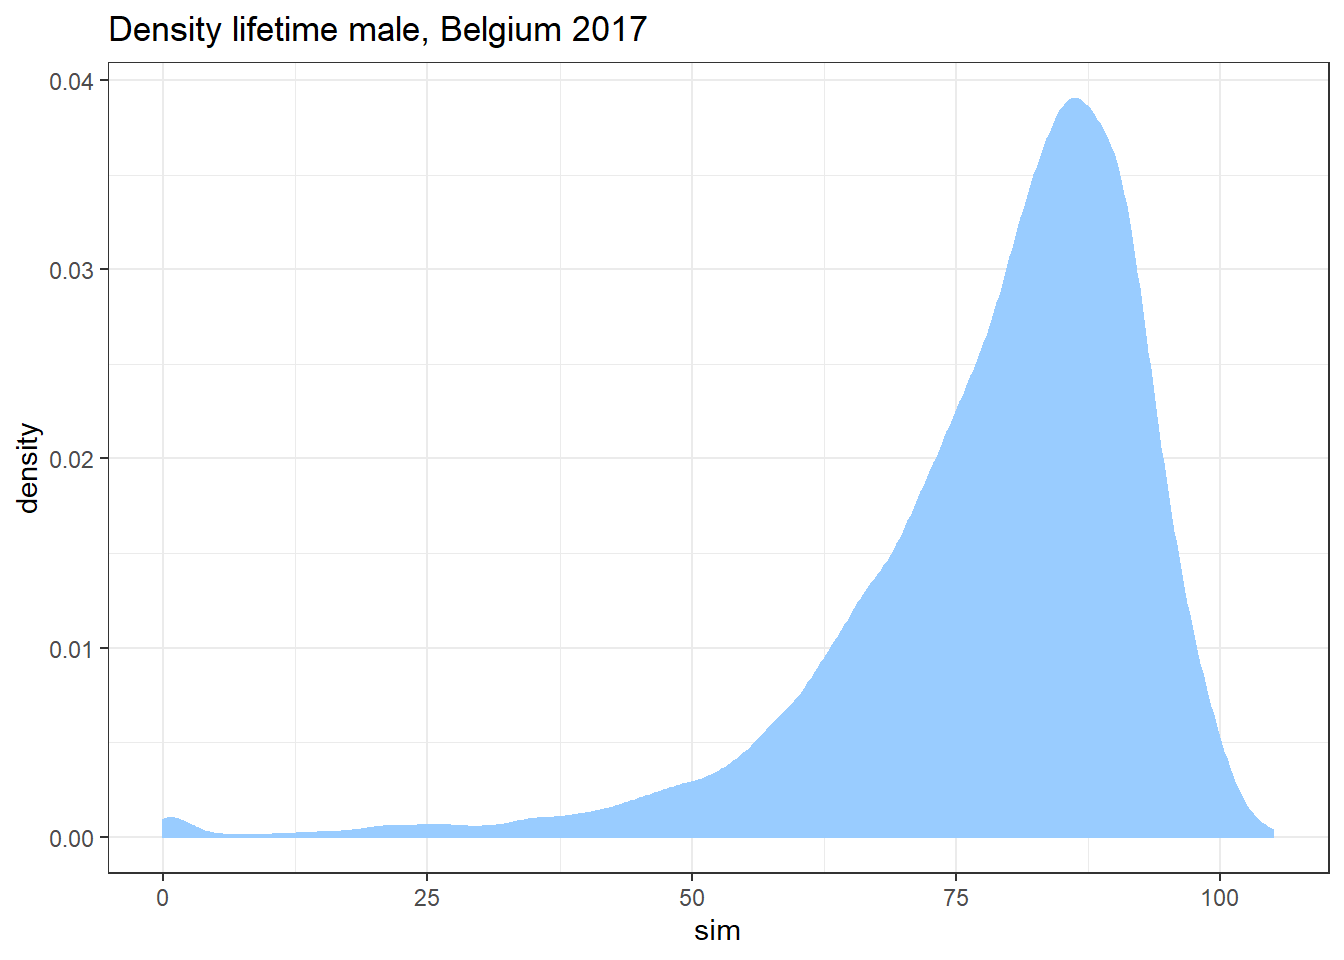
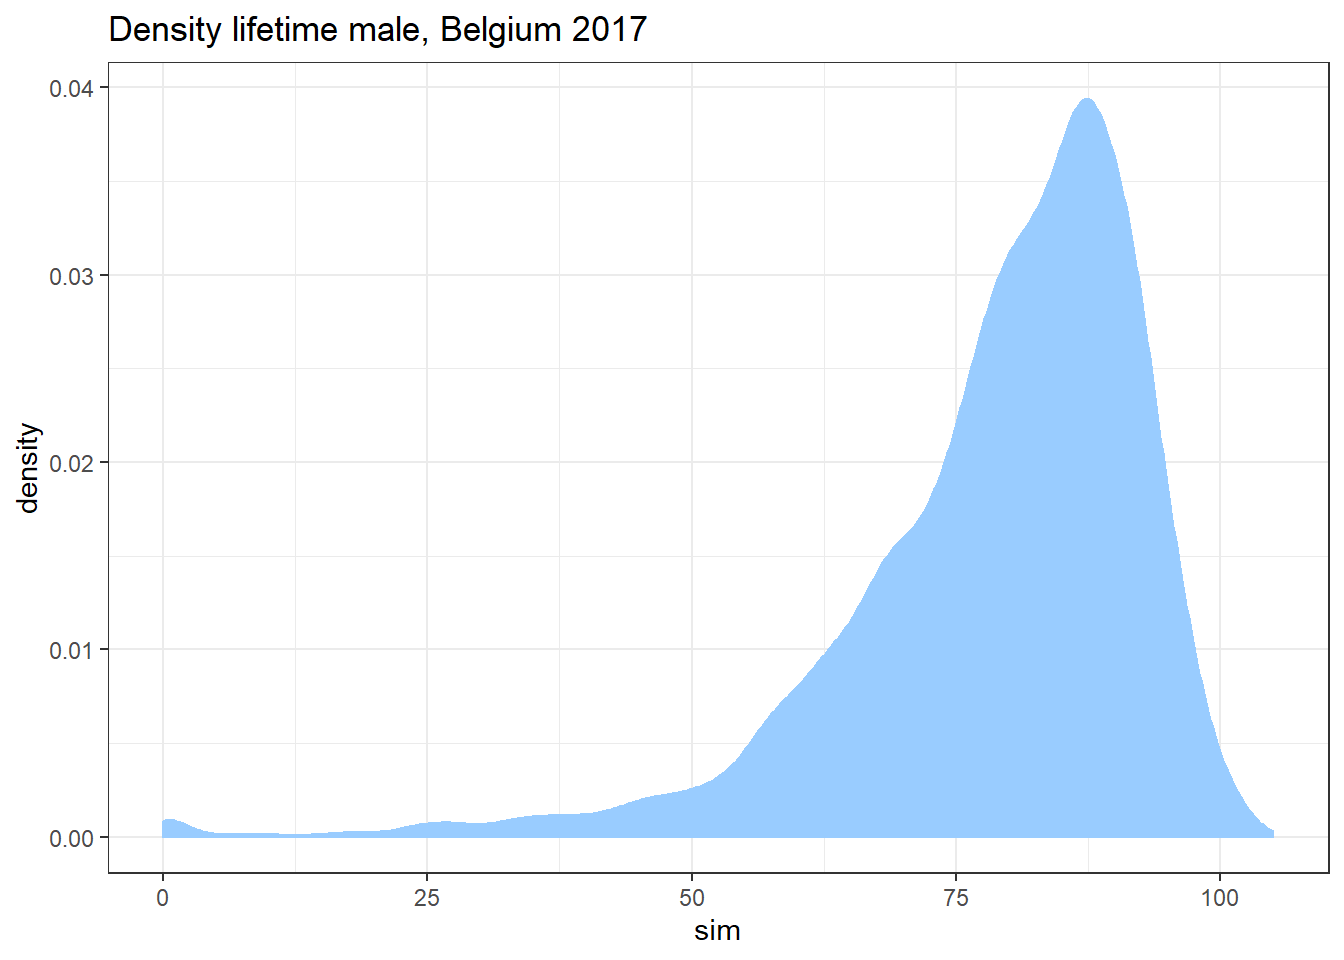
update simualtion

diff --git a/simulation.html b/simulation.html
@@ -25,7 +25,7 @@
 <meta name="author" content="Katrien Antonio and Jonas Crevecoeur">
 
 
-<meta name="date" content="2019-12-02">
+<meta name="date" content="2019-12-05">
 
   <meta name="viewport" content="width=device-width, initial-scale=1">
   <meta name="apple-mobile-web-app-capable" content="yes">
@@ -254,6 +254,30 @@ code > span.in { color: #60a0b0; font-weight: bold; font-style: italic; } /* Inf
 <blockquote>
 <p>Given a CDF <span class="math inline">\(F_X\)</span> of a continuous distribution and a uniformly distributed random variable <span class="math inline">\(U\)</span> on <span class="math inline">\([0, 1]\)</span>. Then <span class="math inline">\(F_X\)</span> is the CDF of the random variable <span class="math inline">\(X = F_X^{-1}(U)\)</span>.</p>
 </blockquote>
+<p>We illustrate this with the exponential distribution, <span class="math display">\[ 
+F_Y(y) = \begin{cases} 
+1 - \exp(-\lambda \cdot y) &amp; y \geq 0 \\
+0 &amp; y &lt; 0
+\end{cases}
+\]</span> and <span class="math display">\[ 
+F_Y^{-1}(z) = -\frac{\log(1-z)}{\lambda}, \quad z \in (0, 1).
+\]</span></p>
+<p>We simulate <span class="math inline">\(u\)</span> from a uniform distribution on <span class="math inline">\([0, 1]\)</span>.</p>
+<div class="sourceCode"><pre class="sourceCode r"><code class="sourceCode r"><span class="kw">set.seed</span>(<span class="dv">4</span>)
+u &lt;-<span class="st"> </span><span class="kw">runif</span>(<span class="dv">1</span>)</code></pre></div>
+<p>When we now apply the inverse cdf on this simulation <span class="math inline">\(u\)</span>, we obtain a simulation from the exponential distribution.</p>
+<div class="sourceCode"><pre class="sourceCode r"><code class="sourceCode r">Finverse &lt;-<span class="st"> </span><span class="cf">function</span>(z, lambda) {
+  <span class="op">-</span><span class="kw">log</span>(<span class="dv">1</span><span class="op">-</span>z) <span class="op">/</span><span class="st"> </span>lambda
+}
+
+lambda &lt;-<span class="st"> </span><span class="dv">1</span>
+sim &lt;-<span class="st"> </span><span class="kw">Finverse</span>(u, lambda)
+
+<span class="kw">print</span>(<span class="kw">c</span>(<span class="dt">u =</span> u, <span class="dt">sim =</span> sim))</code></pre></div>
+<pre><code>##         u       sim 
+## 0.5858003 0.8814071</code></pre>
+<pre><code>## Loading required package: latex2exp</code></pre>
+<p><img src="_main_files/figure-html/cdf%20exponential-1.png" width="672" /></p>
 <p>For more information see <a href="https://en.wikipedia.org/wiki/Probability_integral_transform">probability integral transform</a> and <a href="https://en.wikipedia.org/wiki/Inverse_transform_sampling">inverse transform sampling</a>. Because of this property, you can follow the steps below to simulate <span class="math inline">\(n\)</span> independent observations from a distribution with CDF <span class="math inline">\(F_X\)</span>:</p>
 <ol style="list-style-type: decimal">
 <li>Simulate <span class="math inline">\(n\)</span> indepdendent observations <span class="math inline">\(u_1, \ldots, u_n\)</span> from a uniform distribution (<code>runif</code> in R) on <span class="math inline">\([0, 1]\)</span>;</li>
@@ -328,7 +352,7 @@ sim &lt;-<span class="st"> </span><span class="kw">cdf.inverse</span>(u)</code><
 }
 
 <span class="kw">mean</span>(<span class="kw">deductible</span>(sim, <span class="dv">300</span>))</code></pre></div>
-<pre><code>## [1] 353.4294</code></pre>
+<pre><code>## [1] 382.2624</code></pre>
 </div>
 </div>
 </div>
@@ -410,7 +434,7 @@ aggregated.loss &lt;-<span class="st"> </span><span class="kw">rep</span>(<span 
   
 <span class="co"># Calculate the expected loss per policy, when there is no deductible</span>
 <span class="kw">mean</span>(aggregated.loss)</code></pre></div>
-<pre><code>## [1] 1.325635</code></pre>
+<pre><code>## [1] 1.32758</code></pre>
 <div class="sourceCode"><pre class="sourceCode r"><code class="sourceCode r"><span class="co"># @4</span>
 n &lt;-<span class="st"> </span><span class="dv">10000</span>
 nclaim &lt;-<span class="st"> </span><span class="kw">rpois</span>(n, <span class="dt">lambda =</span> <span class="dv">2</span>)
@@ -429,7 +453,7 @@ aggregated.loss &lt;-<span class="st"> </span><span class="kw">rep</span>(<span 
   
 <span class="co"># Calculate the expected loss per policy, when there is no deductible</span>
 <span class="kw">mean</span>(<span class="kw">pmax</span>(aggregated.loss <span class="op">-</span><span class="st"> </span><span class="fl">0.2</span>, <span class="dv">0</span>))</code></pre></div>
-<pre><code>## [1] 1.160636</code></pre>
+<pre><code>## [1] 1.159679</code></pre>
 <div class="sourceCode"><pre class="sourceCode r"><code class="sourceCode r"><span class="co"># @5</span>
 n &lt;-<span class="st"> </span><span class="dv">10000</span>
 nclaim &lt;-<span class="st"> </span><span class="kw">rpois</span>(n, <span class="dt">lambda =</span> <span class="dv">2</span>)
@@ -448,7 +472,7 @@ aggregated.loss &lt;-<span class="st"> </span><span class="kw">rep</span>(<span 
   
 <span class="co"># Calculate the expected loss per policy, when there is no deductible</span>
 <span class="kw">mean</span>(aggregated.loss)</code></pre></div>
-<pre><code>## [1] 0.9298092</code></pre>
+<pre><code>## [1] 0.9412715</code></pre>
 </div>
 </div>
 <div id="simulating-future-life-times-of-newborns" class="section level2">
